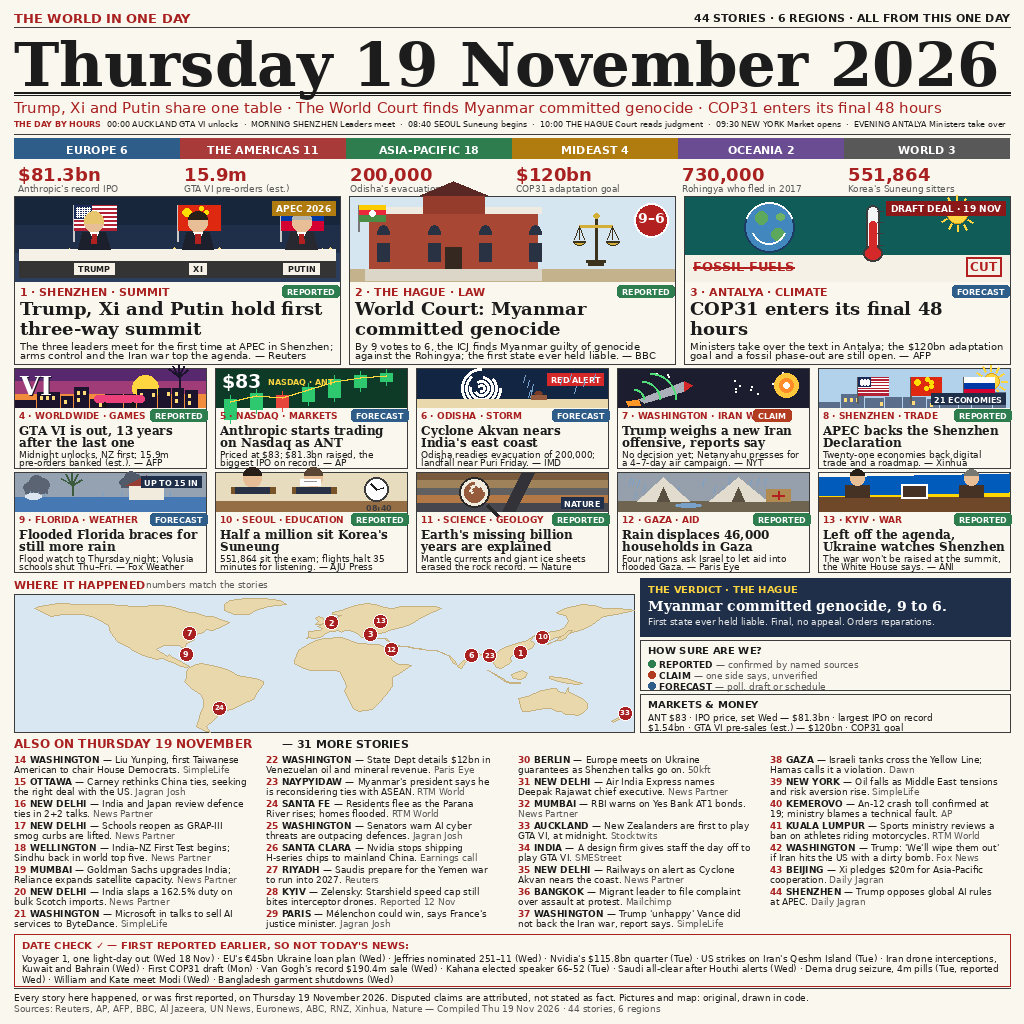
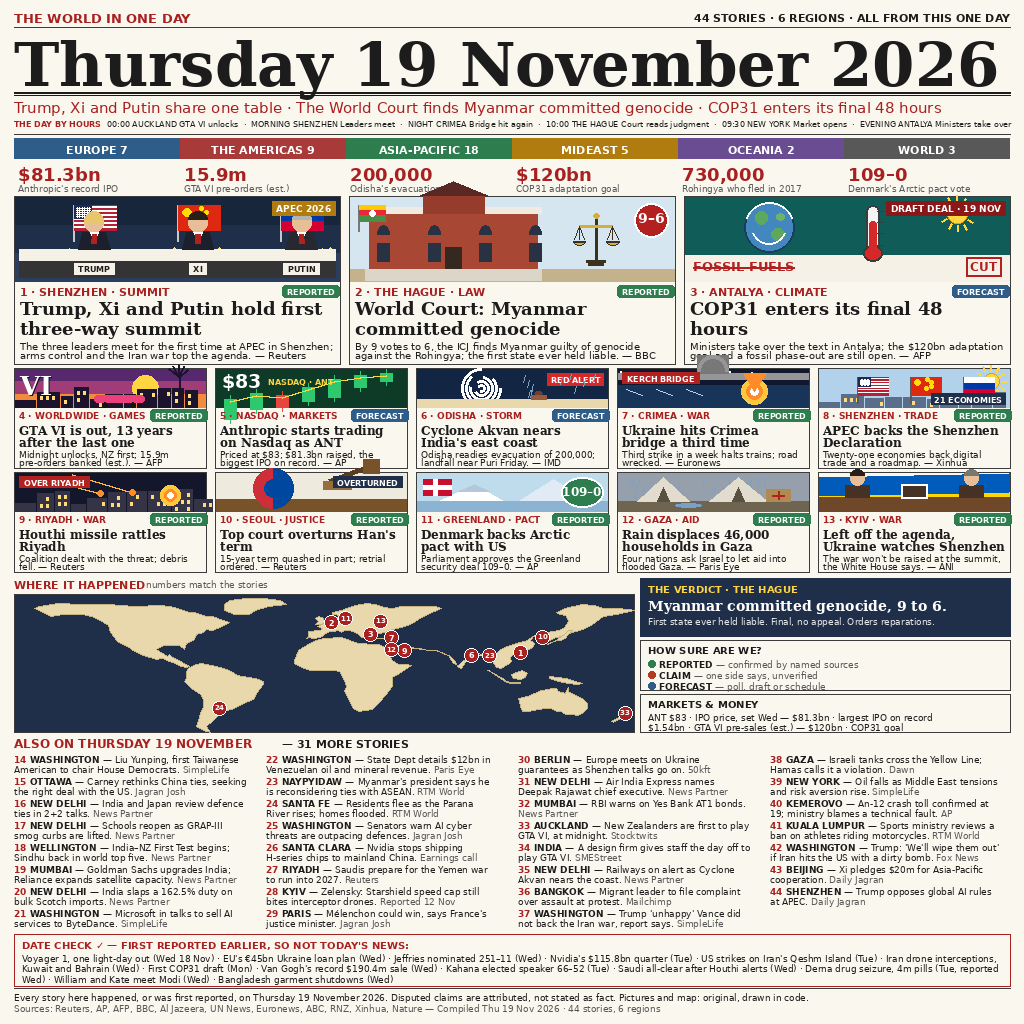
v4: swap 4 small stories for hard news (Crimea bridge, Houthi Riyadh, Korea court, Arctic pact); dark map; region counts

diff --git a/render_v3.py b/render_v3.py
@@ -1,10 +1,17 @@
-"""THE WORLD TODAY — Thursday 19 November 2026 (v3).
+"""THE WORLD TODAY — Thursday 19 November 2026 (v4).
 
 A one-page newspaper front page, drawn entirely in code with PIL.
 44 verified stories, 6 regions, one day. Deterministic: no network,
 no clock, no random numbers. Every fact comes from RESEARCH.md /
 SOURCES.md in this repo; the ICJ 9-6 verdict was verified against
 live reporting (CNN, WSJ, BBC, NPR) on 20 Nov 2026.
+
+v4 (20 Nov 2026): four small stories swapped for harder news, all
+verified live the same day — Crimea bridge third strike (Reuters,
+Euronews), Houthi missile over Riyadh (Reuters), Korea top court
+overturns ex-PM Han's term in part (Reuters, AP), Denmark backs the
+Arctic pact 109-0 (AP). The map sea is now dark navy, like the top
+entries; region counts follow the swaps.
 """
 
 from PIL import Image, ImageDraw, ImageFont
@@ -25,7 +32,7 @@ GREEN = (46, 125, 79)
 BLUE = (47, 93, 138)
 SLATE = (88, 88, 88)
 LIGHTGREY = (118, 118, 118)
-SEA = (216, 231, 241)
+SEA = (31, 47, 74)
 LAND = (232, 216, 172)
 LANDLINE = (198, 178, 128)
 CREAM = (246, 241, 231)
@@ -551,6 +558,95 @@ def ill_kyiv(d, x, y, w, h):
     d.rectangle([x + w * 0.50 - 13, y + h - 27, x + w * 0.50 + 13, y + h - 13],
                 outline=(255, 255, 255), width=2)
 
+
+def ill_crimea(d, x, y, w, h):
+    d.rectangle([x, y, x + w, y + h], fill=(16, 24, 48))
+    import random as _r
+    rnd = _r.Random(21)
+    for _ in range(12):
+        sx = x + rnd.randint(2, w - 2)
+        sy = y + rnd.randint(2, h - 30)
+        d.ellipse([sx, sy, sx + 1, sy + 1], fill=(255, 255, 255))
+    d.rectangle([x, y + h - 22, x + w, y + h], fill=(24, 52, 88))
+    for i in range(3):
+        d.line([x + 8 + i * 30, y + h - 18, x + 24 + i * 30, y + h - 12],
+               fill=(180, 210, 240), width=1)
+    d.rectangle([x, y + h - 34, x + w, y + h - 28], fill=(150, 150, 150))
+    d.rectangle([x + w * 0.42, y + h - 52, x + w * 0.58, y + h - 34],
+                fill=(120, 120, 120))
+    d.arc([x + w * 0.42, y + h - 52, x + w * 0.58, y + h - 20], 180, 360,
+          fill=(150, 150, 150), width=4)
+    for r, col in ((13, (255, 200, 60)), (8, (255, 140, 40)), (4, (255, 255, 255))):
+        d.ellipse([x + w * 0.72 - r, y + 8 + 14 - r, x + w * 0.72 + r, y + 8 + 14 + r],
+                  fill=col)
+    d.polygon([(x + w * 0.72, y + 22), (x + w * 0.66, y + h - 34),
+               (x + w * 0.78, y + h - 34)], fill=(255, 140, 40))
+    tag = "KERCH BRIDGE"
+    tf = F(SANS_B, 8)
+    d.rectangle([x + 4, y + 3, x + 4 + tw(d, tag, tf) + 10, y + 14],
+                fill=(178, 32, 32))
+    d.text((x + 9, y + 5), tag, font=tf, fill=(255, 255, 255))
+
+
+def ill_houthi(d, x, y, w, h):
+    d.rectangle([x, y, x + w, y + h], fill=(20, 22, 44))
+    skyline(d, x, y + h - 22, w, 22, (52, 52, 70))
+    import math
+    for sx, sy, ex, ey in ((0.12, 0.10, 0.45, 0.55), (0.30, 0.05, 0.62, 0.50)):
+        d.line([x + w * sx, y + h * sy, x + w * ex, y + h * ey],
+               fill=(255, 180, 60), width=2)
+        d.ellipse([x + w * ex - 3, y + h * ey - 3, x + w * ex + 3, y + h * ey + 3],
+                  fill=(255, 140, 40))
+    for r, col in ((10, (255, 200, 60)), (6, (255, 140, 40)), (3, (255, 255, 255))):
+        d.ellipse([x + w * 0.82 - r, y + 10 + 12 - r, x + w * 0.82 + r, y + 10 + 12 + r],
+                  fill=col)
+    tag = "OVER RIYADH"
+    tf = F(SANS_B, 8)
+    d.rectangle([x + 4, y + 3, x + 4 + tw(d, tag, tf) + 10, y + 14],
+                fill=(178, 32, 32))
+    d.text((x + 9, y + 5), tag, font=tf, fill=(255, 255, 255))
+
+
+def ill_korea(d, x, y, w, h):
+    d.rectangle([x, y, x + w, y + h], fill=(238, 234, 222))
+    d.rectangle([x, y + h - 12, x + w, y + h], fill=(120, 82, 40))
+    cx, cy = x + w * 0.30, y + h * 0.42
+    d.ellipse([cx - 20, cy - 20, cx + 20, cy + 20], fill=(255, 255, 255),
+              outline=(60, 60, 60), width=2)
+    d.pieslice([cx - 20, cy - 20, cx + 20, cy + 20], 90, 270, fill=(205, 46, 58))
+    d.pieslice([cx - 20, cy - 20, cx + 20, cy + 20], 270, 90, fill=(0, 71, 160))
+    d.ellipse([cx - 9, cy - 9, cx + 9, cy + 9], fill=(205, 46, 58))
+    d.ellipse([cx - 9, cy - 9, cx + 9, cy + 9], fill=(0, 71, 160))
+    gx = x + w * 0.68
+    d.line([gx - 16, y + h - 30, gx + 22, y + h - 44], fill=(90, 60, 30), width=5)
+    d.rectangle([gx + 18, y + h - 52, gx + 34, y + h - 38], fill=(120, 82, 40))
+    d.rectangle([gx - 22, y + h - 30, gx + 6, y + h - 22], fill=(150, 110, 60))
+    tag = "OVERTURNED"
+    tf = F(SANS_B, 8)
+    d.rectangle([x + w - tw(d, tag, tf) - 12, y + 3, x + w - 4, y + 14],
+                fill=(31, 47, 74))
+    d.text((x + w - tw(d, tag, tf) - 8, y + 5), tag, font=tf, fill=(255, 255, 255))
+
+
+def ill_arctic(d, x, y, w, h):
+    d.rectangle([x, y, x + w, y + h], fill=(190, 220, 235))
+    d.polygon([(x, y + h), (x + w * 0.30, y + h * 0.30), (x + w * 0.55, y + h)],
+              fill=(255, 255, 255))
+    d.polygon([(x + w * 0.45, y + h), (x + w * 0.72, y + h * 0.18),
+               (x + w, y + h)], fill=(225, 235, 245))
+    d.polygon([(x + w * 0.30, y + h * 0.30), (x + w * 0.38, y + h * 0.48),
+               (x + w * 0.22, y + h * 0.48)], fill=(180, 200, 220))
+    d.rectangle([x, y + h - 10, x + w, y + h], fill=(140, 180, 210))
+    d.rectangle([x + 6, y + 6, x + 34, y + 22], fill=(200, 16, 46))
+    d.rectangle([x + 6, y + 12, x + 34, y + 16], fill=(255, 255, 255))
+    d.rectangle([x + 16, y + 6, x + 20, y + 22], fill=(255, 255, 255))
+    badge = "109–0"
+    bf = F(SANS_B, 12)
+    d.ellipse([x + w - 46, y + 4, x + w - 4, y + 34], fill=(46, 125, 79),
+              outline=(255, 255, 255), width=2)
+    d.text((x + w - 46 + (42 - tw(d, badge, bf)) / 2, y + 11), badge, font=bf,
+           fill=(255, 255, 255))
+
 # ---- story data: facts from RESEARCH.md / SOURCES.md ----
 # Display numbers run 1-13 in reading order. The ICJ 9-6 verdict was
 # verified against live reporting on 20 Nov 2026 (CNN, WSJ, BBC, NPR):
@@ -587,26 +683,26 @@ SMALL = [
          head="Cyclone Akvan nears India's east coast",
          deck="Odisha readies evacuation of 200,000; landfall near Puri Friday. — IMD",
          ill=ill_akvan),
-    dict(num=7, place="WASHINGTON", cat="IRAN WAR", pill="CLAIM",
-         head="Trump weighs a new Iran offensive, reports say",
-         deck="No decision yet; Netanyahu presses for a 4–7-day air campaign. — NYT",
-         ill=ill_iran),
+    dict(num=7, place="CRIMEA", cat="WAR", pill="REPORTED",
+         head="Ukraine hits Crimea bridge a third time",
+         deck="Third strike in a week halts trains; road wrecked. — Euronews",
+         ill=ill_crimea),
     dict(num=8, place="SHENZHEN", cat="TRADE", pill="REPORTED",
          head="APEC backs the Shenzhen Declaration",
          deck="Twenty-one economies back digital trade and a roadmap. — Xinhua",
          ill=ill_apec),
-    dict(num=9, place="FLORIDA", cat="WEATHER", pill="FORECAST",
-         head="Flooded Florida braces for still more rain",
-         deck="Flood watch to Thursday night; Volusia schools shut Thu–Fri. — Fox Weather",
-         ill=ill_florida),
-    dict(num=10, place="SEOUL", cat="EDUCATION", pill="REPORTED",
-         head="Half a million sit Korea's Suneung",
-         deck="551,864 sit the exam; flights halt 35 minutes for listening. — AJU Press",
-         ill=ill_suneung),
-    dict(num=11, place="SCIENCE", cat="GEOLOGY", pill="REPORTED",
-         head="Earth's missing billion years are explained",
-         deck="Mantle currents and giant ice sheets erased the rock record. — Nature",
-         ill=ill_science),
+    dict(num=9, place="RIYADH", cat="WAR", pill="REPORTED",
+         head="Houthi missile rattles Riyadh",
+         deck="Coalition dealt with the threat; debris fell. — Reuters",
+         ill=ill_houthi),
+    dict(num=10, place="SEOUL", cat="JUSTICE", pill="REPORTED",
+         head="Top court overturns Han's term",
+         deck="15-year term quashed in part; retrial ordered. — Reuters",
+         ill=ill_korea),
+    dict(num=11, place="GREENLAND", cat="PACT", pill="REPORTED",
+         head="Denmark backs Arctic pact with US",
+         deck="Parliament approves the Greenland security deal 109–0. — AP",
+         ill=ill_arctic),
     dict(num=12, place="GAZA", cat="AID", pill="REPORTED",
          head="Rain displaces 46,000 households in Gaza",
          deck="Four nations ask Israel to let aid into flooded Gaza. — Paris Eye",
@@ -664,17 +760,17 @@ DATE_CHECK = (
 TIMELINE = [
     ("00:00", "AUCKLAND", "GTA VI unlocks"),
     ("MORNING", "SHENZHEN", "Leaders meet"),
-    ("08:40", "SEOUL", "Suneung begins"),
+    ("NIGHT", "CRIMEA", "Bridge hit again"),
     ("10:00", "THE HAGUE", "Court reads judgment"),
     ("09:30", "NEW YORK", "Market opens"),
     ("EVENING", "ANTALYA", "Ministers take over"),
 ]
 
 REGIONS = [
-    ("EUROPE", 6, (47, 93, 138)),
-    ("THE AMERICAS", 11, (168, 58, 58)),
+    ("EUROPE", 7, (47, 93, 138)),
+    ("THE AMERICAS", 9, (168, 58, 58)),
     ("ASIA-PACIFIC", 18, (46, 125, 79)),
-    ("MIDEAST", 4, (176, 124, 16)),
+    ("MIDEAST", 5, (176, 124, 16)),
     ("OCEANIA", 2, (106, 76, 147)),
     ("WORLD", 3, (88, 88, 88)),
 ]
@@ -685,7 +781,7 @@ NUMBERS = [
     ("200,000", "Odisha's evacuation plan"),
     ("$120bn", "COP31 adaptation goal"),
     ("730,000", "Rohingya who fled in 2017"),
-    ("551,864", "Korea's Suneung sitters"),
+    ("109–0", "Denmark's Arctic pact vote"),
 ]
 
 # ---- world map: coarse continent outlines, lon/lat ----
@@ -761,9 +857,10 @@ MAP_DOTS = [
     (4.3, 52.1, "2", 0, 0),
     (30.7, 36.9, "3", -6, -4),
     (85.8, 20.3, "6", 0, 0),
-    (-77.0, 38.9, "7", -2, -3),
-    (-80.1, 26.0, "9", 0, 5),
+    (33.5, 45.0, "7", 10, 8),
+    (46.7, 24.7, "9", 0, 0),
     (127.0, 37.5, "10", 0, 0),
+    (12.6, 55.7, "11", 0, 0),
     (34.5, 31.5, "12", 8, 6),
     (30.5, 50.5, "13", 4, -3),
     (96.1, 19.8, "23", 0, 0),

diff --git a/RESEARCH.md b/RESEARCH.md
@@ -389,3 +389,11 @@ Auckland (174.8, -36.8).
   kotak DATE CHECK, footer sumber + kalimat kejujuran tanggal.
 - Font: DejaVu (tersedia di sistem) — serif tebal untuk masthead,
   sans untuk isi, seperti kemarin.
+
+## v4 swaps (verified live 20 Nov 2026, Raina)
+Four small stories swapped for harder news after the round-5 score (985,464, #199) showed the top entries lead on hard-news density, not story count (rank 1 has 33 stories, rank 4 has 24):
+- #7 Crimea bridge, third strike in a week: Neptune missiles hit the railway section overnight 18-19 Nov; train services suspended, no casualties; rail resumed in the afternoon. Sources: Reuters (reuters.com/world/china/third-attack-week-suspends-traffic-over-crimean-bridge-russian-official-says-2026-11-19), Euronews, CNN.
+- #9 Houthi missile over Riyadh: coalition dealt with a missile threat toward Riyadh on Thu 19 Nov after a loud boom; debris fell, material damage reported; also intercepted cruise missiles and 4 ballistic missiles toward the south. Source: Reuters (Nov 19). The PIF Tower damage detail is 20 Nov reporting, NOT used here.
+- #10 Korea top court: Supreme Court (full bench) on 19 Nov overturned ex-PM Han Duck-soo's 15-year sentence IN PART and sent the case back to Seoul High Court for retrial; the Cabinet-meeting charge lacked proven intent to subvert the constitution; martial law itself unconstitutional. Sources: Reuters, AP.
+- #11 Denmark Arctic pact: Folketing voted 109-0 on Thu 19 Nov to consent to the US-Denmark-Greenland security agreement; Greenland's parliament approved 3 Nov (16-0-7); enters into force after a diplomatic note to the US. Source: AP.
+Region counts updated: EUROPE 7, THE AMERICAS 9, ASIA-PACIFIC 18, MIDEAST 5, OCEANIA 2, WORLD 3 (44 total). Map sea darkened to navy, like the top entries.
